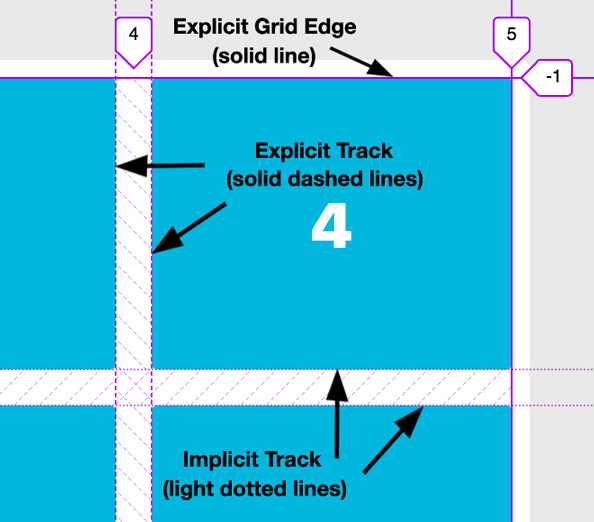
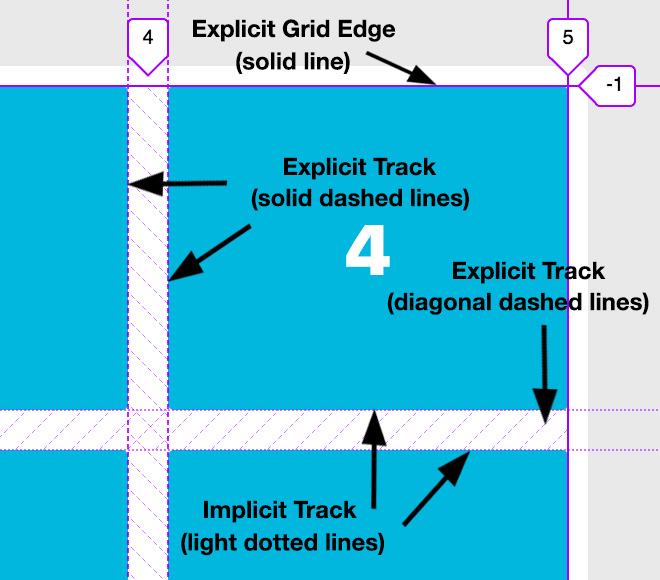
Finishing touches after walk-through.

diff --git a/slides/terminology/implicit-explicit.html b/slides/terminology/implicit-explicit.html
@@ -1,24 +1,23 @@
 <h4>Implicit vs Explicit Tracks</h4>
-	<pre>
-		<code class="css line-numbers" data-trim data-noescape>
+<pre>
+	<code class="css line-numbers" data-trim data-noescape>
 /* CSS */
 .container {
 	display: grid;
 	<mark class="line-highlight">grid-template-columns: 200px 200px 200px 200px;</mark>
 	grid-gap: 15px;
 }
-		</code>
-	</pre>
+	</code>
+</pre>
+
 <img src="images/terminology/explicit-vs-implicit.png" alt="Implicit Rows">
 
 <aside class="notes">
 	<ul>
-		<li>Understanding how Implicit and Explicit grid/tracks work is a part of the fundamental understanding of CSS Grid.</li>
-		<li>If you do not explicitly define a track, it will be implicit - meaning that the browser will automatically fill in the remaining items that do not fit in to the defined tracks.</li>
-		<li>Here, we've explicitly defined 4 columns.</li>
+		<li>And here in our styles, we've explicitly defined 4 columns.</li>
 		<li>If we did not define them, we would have 1 column and the width would expand to 100% of the container.</li>
 		<li>Once the defined columns are filled, the browser needs to put the remaining items somewhere so it will wrap them around, respecting the column definition, and fill them in as rows.</li>
 		<li>Even though we did not define any rows, they will be implicitly created.</li>
-		<li>Similarly, if you do define a set of grid rows, the grid extra items will fill themselves in automatically after they take up the space in the rows that have been explicitly defined.</li>
+		<li>Similarly, if you do define a set of grid rows, the extra items will fill themselves in automatically after they take up the space in the rows that have been explicitly defined.</li>
 	</ul>
 </aside>

diff --git a/slides/template-areas/styles.html b/slides/template-areas/styles.html
@@ -1,16 +1,16 @@
 <h4>CSS</h4>
 
 <pre>
-	<code class="css line-numbers" data-trim>
+	<code class="css line-numbers" data-trim data-noescape>
 .container {
 	display: grid;
 	grid-gap: 1.25rem;
 	grid-template-columns: 200px 1fr;
 	grid-template-rows: 150px 1fr 100px;
-	grid-template-areas:
-		"header header"
-		"sidebar content"
-		"footer footer"
+	<mark class="line-highlight">grid-template-areas:</mark>
+	<mark class="line-highlight">	"header header"</mark>
+	<mark class="line-highlight">	"sidebar content"</mark>
+	<mark class="line-highlight">	"footer footer";</mark>
 	height: 75vh;
 }
 	</code>
@@ -35,7 +35,10 @@ footer {
 
 <aside class="notes">
 	<ul>
-		<li>This block of CSS is pretty similar to the code in our previous examples, with the main exception of the `grid-template-areas`.</li>
-		<li>Instead of placing each grid item individually, we can define the entire layout with this property and then assign the areas to each item using the `grid-area` property.</li>
+		<li>This block of CSS is pretty similar to the code in our previous examples, with the main exception being the `grid-template-areas` property.</li>
+		<li>Instead of placing each grid item individually, we can define the entire layout with this property and then assign the different areas to each item using the `grid-area` property.</li>
+		<li>Repeating the name of a grid area causes the grid item to span across those rows or columns.</li>
+		<li>The number of area names you list out as rows and columns is based on the number of rows and columns defined on that container.</li>
+		<li>You can look at this definition and visualize it as an actual grid.</li>
 	</ul>
 </aside>

diff --git a/index.html b/index.html
@@ -49,6 +49,7 @@
 					<section data-external="slides/terminology/grid-tracks.html"> </section>
 					<section data-external="slides/terminology/grid-gutter.html"> </section>
 					<section data-external="slides/terminology/grid-area.html"> </section>
+					<section data-external="slides/terminology/implicit-explicit-markup.html"> </section>
 					<section class="split" data-external="slides/terminology/implicit-explicit.html"> </section>
 				</section>
 
@@ -85,8 +86,8 @@
 				<!-- Placing Grid Items -->
 				<section>
 					<section data-external="slides/placing-items/index.html"> </section>
-					<section class="split" data-external="slides/placing-items/styles.html"> </section>
-					<section class="split" data-external="slides/placing-items/result.html"> </section>
+					<section class="split" data-external="slides/placing-items/example.html"> </section>
+					<section class="split" data-external="slides/placing-items/shorthand.html"> </section>
 				</section>
 
 				<!-- Grid Template Areas -->
@@ -154,7 +155,7 @@
 				]
 			});
 			// Shows the slide number using default formatting
-			Reveal.configure({ slideNumber: true });
+			// Reveal.configure({ slideNumber: true });
 			// Shows the slide number using total slides
 			// Reveal.configure({ slideNumber: 'c/t' });
 		</script>

diff --git a/slides/faq/tables-comparison.html b/slides/faq/tables-comparison.html
@@ -11,9 +11,9 @@
 	<ul>
 		<li>There are a few main reasons why you shouldn't use HTML tables for layouts and why CSS Grid is different:
 			<ul>
-				<li>HTML tables were designed for tabular data. Early on, people used them as a hack because CSS support across browsers was very poor.</li>
+				<li>HTML tables were designed for tabular data. Early on, people used them as a layout hack because CSS support across browsers was very poor.</li>
 				<li>Using tables for layout reduces accessibility for visually impaired users - the output from screen-readers tends to be confusing for users because of the more complex markup.</li>
-				<li>Because the markup structures tend to be more complex than proper layout techniques, this can result in the code that is harder to maintain, and debug.</li>
+				<li>Because the markup structures tend to be more complex than proper layout techniques, this can result in code that is harder to maintain and debug.</li>
 				<li>Lastly, tables are not automatically responsive: Proper layout containers default to 100% of the width of their parent element.</li>
 				<li>Tables on the other hand are sized according to their content by default.</li>
 				<li>Because of this, extra measures are needed to get a table-based layout to work across devices.</li>

diff --git a/slides/faq/flexbox-comparison.html b/slides/faq/flexbox-comparison.html
@@ -1,7 +1,9 @@
 <h4>CSS Grid vs. Flexbox</h4>
-<!-- NEEDS UPDATED IMAGES: -->
-<img src="images/flexbox-directional-flow.png" alt="Flexbox FLow">
-<img src="images/grid-directional-flow.png" alt="CSS Grid Flow">
+
+<ul>
+	<li class="fragment">Flexbox = one-directional (rows <em>or</em> columns)</li>
+	<li class="fragment">CSS Grid = two-directional (rows <em>and</em> columns)</li>
+</ul>
 
 <aside class="notes">
 	<ul>
@@ -10,7 +12,7 @@
 			<ul>
 				<li>Flexbox takes a one-directional approach and gives the container element the ability to alter its items to best fill the available space</li>
 				<li>With Flexbox, you control the directional flow to be either rows or columns.</li>
-				<li>CSS Grid, on the other hand, takes a two-dimentional approach and allows you full control to place a container's items in BOTH rows and columns.</li>
+				<li>CSS Grid, on the other hand, takes a two-directional approach and allows you full control to place a container's items in BOTH rows and columns.</li>
 			</ul>
 		</li>
 		<li>While there is certainly some overlap and cases where you could use one or the other, there are also many cases where you would reach for one OVER the other.</li>

diff --git a/slides/browser-support/caniuse.html b/slides/browser-support/caniuse.html
@@ -8,7 +8,7 @@
 		<li>In addition, there are a couple of useful things to be aware of when considering fallbacks, if you need them:
 			<ul>
 				<li>Browsers ignore CSS they don’t understand</li>
-				<li>So, if a browser that doesn’t support CSS Grid comes across the a Grid-specific property, it doesn’t know what it is so throws that line away and continues.</li>
+				<li>So, if a browser that doesn’t support CSS Grid comes across the a Grid-specific property, it ignores it and continues on.</li>
 				<li>And with that, the new layout specification knows about old layout</li>
 				<li>This means that if an item is floated or uses the clear property, then becomes a grid item, it will no longer display any floating or clearing behavior.</li>
 				<li>Between these two things, it can be failry simple to implement a fallback for an element that uses CSS Grid - you just need to determine if it's worth the overhead, based on the demographic data of your application.</li>

diff --git a/slides/placing-items/example.html b/slides/placing-items/example.html
@@ -1,0 +1,27 @@
+<pre>
+	<code class="css full-height line-numbers" data-trim>
+.item1 {
+	grid-column-start: 1;
+	grid-column-end: 3;
+	grid-row-start: 1;
+	grid-row-end: 3;
+}
+.item9 {
+	grid-column-start: 1;
+	grid-column-end: 2;
+	grid-row-start: 3;
+	grid-row-end: 4;
+}
+	</code>
+</pre>
+
+<img src="images/placing-grid-items.png" alt="Placing Grid Items">
+
+<aside class="notes">
+	<ul>
+		<li>Using the same container markup and styles from our previous examples (just adding a few additional items), we can start to target individual grid items for fine-grained control over a more complex grid layout.</li>
+		<li>Here, we're setting specific start and end positions for grid item #1 to span across multiple rows and columns.</li>
+		<li>Additionally, we're moving the position of item #9 to the default position of item #6, shifting #6 over one.</li>
+		<li>The items we don't position will attempt to fill in and span their default height and width.</li>
+	</ul>
+</aside>

diff --git a/slides/properties/row-start-end.html b/slides/properties/row-start-end.html
@@ -1,5 +1,5 @@
 <h4>Item Properties</h4>
-<p><small><code>grid-row-start</code> & <code>grid-row-end</code></small></p>
+<p><small><code>grid-row-start</code> <br> <code>grid-row-end</code></small></p>
 
 <pre>
 	<code class="css line-numbers" data-trim data-noescape>
@@ -25,7 +25,7 @@
 
 <aside class="notes">
 	<ul>
-		<li>The `grid-row-start` and `grid-column-end` properties specify a grid item’s start and end position, respectively, within the grid row.</li>
+		<li>The `grid-row-start` and `grid-row-end` properties specify a grid item’s start and end position, respectively, within the grid row.</li>
 		<li>Building off of the previous example, we're now setting the element with the class of `item1` to span over three rows high.</li>
 		<li>And `grid-row` is the shorthand property for the two, where the first value is the start position and the second property is the end position.</li>
 	</ul>

diff --git a/slides/properties/column-start-end.html b/slides/properties/column-start-end.html
@@ -1,5 +1,5 @@
 <h4>Item Properties</h4>
-<p><small><code>grid-column-start</code> & <code>grid-column-end</code></small></p>
+<p><small><code>grid-column-start</code> <br> <code>grid-column-end</code></small></p>
 
 <pre>
 	<code class="css line-numbers" data-trim data-noescape>
@@ -24,6 +24,6 @@
 	<ul>
 		<li>The `grid-column-start` and `grid-column-end` properties specify a grid item’s start and end position, respectively, within the grid column.</li>
 		<li>Here, we're setting the element with the class of `item1` to span over two columns in width.</li>
-		<li>And `grid-column` is the shorthand property for the two, where the first value is the start position and the second property is the end position.</li>
+		<li>And `grid-column` is the shorthand property for the two, where the first value is the start position and the second value is the end position.</li>
 	</ul>
 </aside>

diff --git a/slides/resources/index.html b/slides/resources/index.html
@@ -1,10 +1,10 @@
 <h2>References / Resources</h2>
 <ul>
-	<li>Rachel Andrew / @rachelandrew / gridbyexample.com</li>
-	<li>Jen Simmons / @jensimmons / labs.jensimmons.com</li>
-	<li>A Book Apart - The New CSS Layout, by Rachel Andrew</li>
-	<li>CSS Tricks A Complete Guide to Grid</li>
-	<li>MDN Docs</li>
-	<li>Mozilla Developer Playground</li>
-	<li>Wes Bos's video course on CSS Grid</li>
+	<li><small>Rachel Andrew / @rachelandrew / gridbyexample.com</small></li>
+	<li><small>Jen Simmons / @jensimmons / labs.jensimmons.com</small></li>
+	<li><small>A Book Apart - The New CSS Layout, by Rachel Andrew</small></li>
+	<li><small>CSS Tricks A Complete Guide to Grid</small></li>
+	<li><small>Mozilla Developer Network (MDN) Docs</small></li>
+	<li><small>Mozilla Developer Playground</small></li>
+	<li><small>Wes Bos's video course on CSS Grid</small></li>
 </ul>

diff --git a/slides/terminology/implicit-explicit-markup.html b/slides/terminology/implicit-explicit-markup.html
@@ -1,0 +1,24 @@
+<h4>Implicit vs Explicit Tracks</h4>
+<pre>
+	<code class="html line-numbers" data-trim>
+<div class="container">
+	<div class="item">1</div>
+	<div class="item">2</div>
+	<div class="item">3</div>
+	<div class="item">4</div>
+	<div class="item">5</div>
+	<div class="item">6</div>
+	<div class="item">7</div>
+	<div class="item">8</div>
+</div>
+	</code>
+</pre>
+
+<aside class="notes">
+	<ul>
+		<li>Understanding how Implicit and Explicit tracks work is a part of the fundamental understanding of CSS Grid.</li>
+		<li>If you do not explicitly define a track, it will be implicit - meaning that the browser will automatically fill in the remaining items that do not fit in to the defined tracks.</li>
+		<li>Let's consider this markup.</li>
+		<li>Here we have a container with 8 elements that will become grid items.</li>
+	</ul>
+</aside>

diff --git a/slides/basic-example/styles-revised.html b/slides/basic-example/styles-revised.html
@@ -5,7 +5,7 @@
 	display: grid;
 	<mark class="line-highlight">grid-template-columns: 200px 200px 200px 200px;</mark>
 	<mark class="line-highlight">grid-template-rows: 200px 200px;</mark>
-	grid-gap: 20px;
+	grid-gap: 15px;
 }
 	</code>
 </pre>
@@ -16,7 +16,7 @@
 <aside class="notes">
 	<ul>
 		<li>Here, we've set up 4 columns of 200px wide and 2 rows of 200px in height.</li>
-		<li>We've set the space between our rows and columns to be 20px, with the `grid-gap` rule.</li>
+		<li>We've set the space between our rows and columns to be 15px, with the `grid-gap` rule.</li>
 		<li>The result is much better. And not too bad for just 4 lines of CSS!</li>
 		<li>But thre's still room for improvement. For example, how do we get the items to take up the full space? Calculate percentages?</li>
 	</ul>
